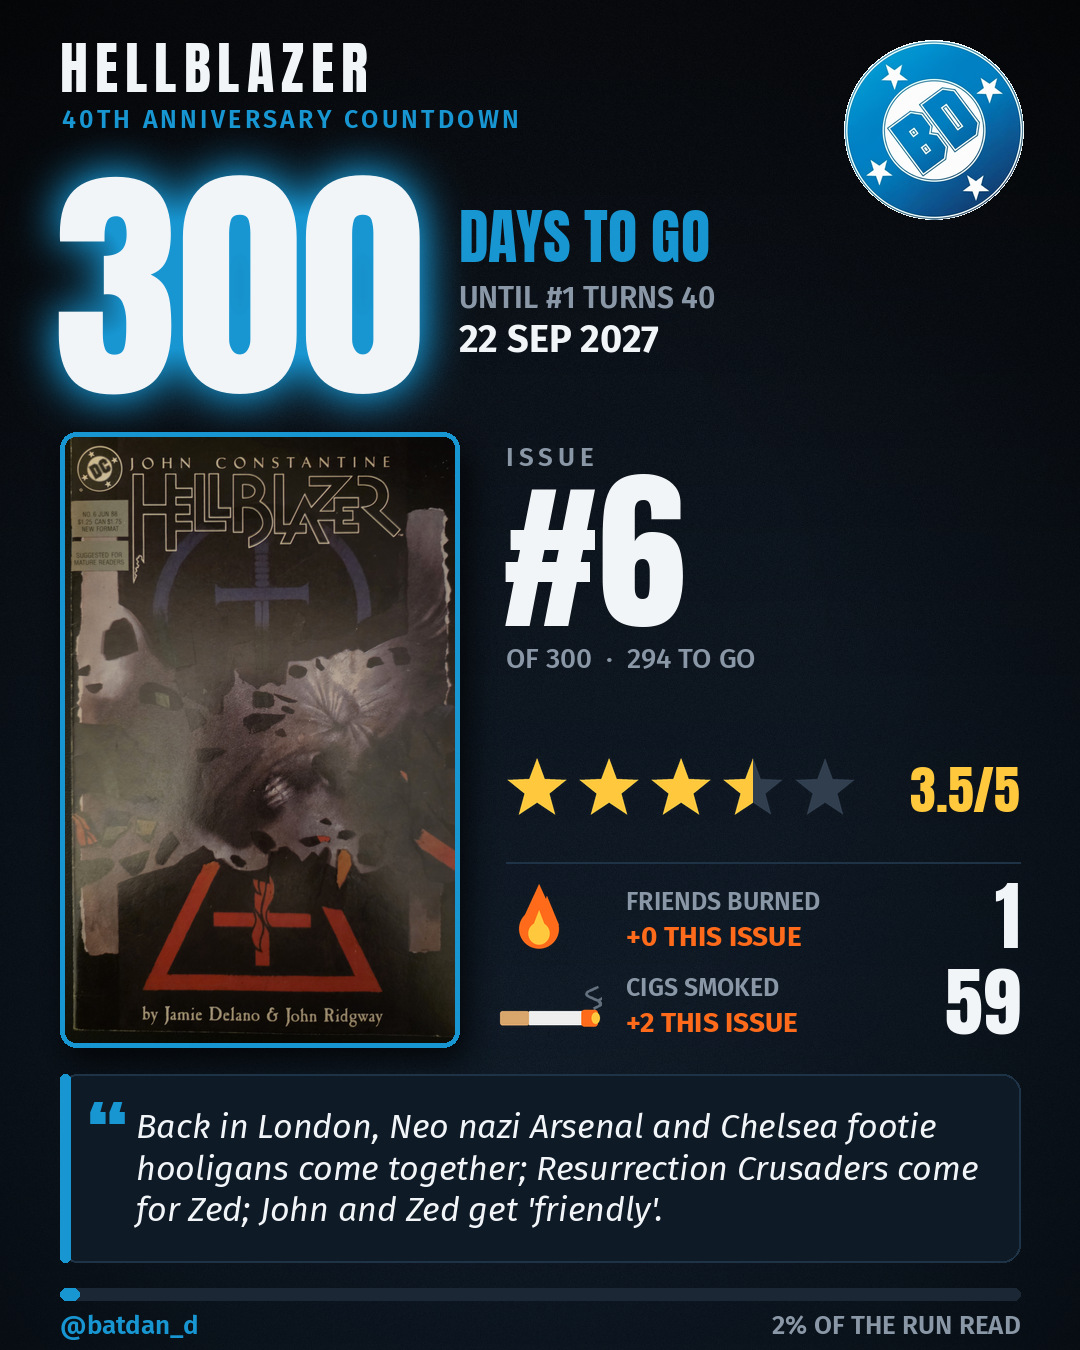
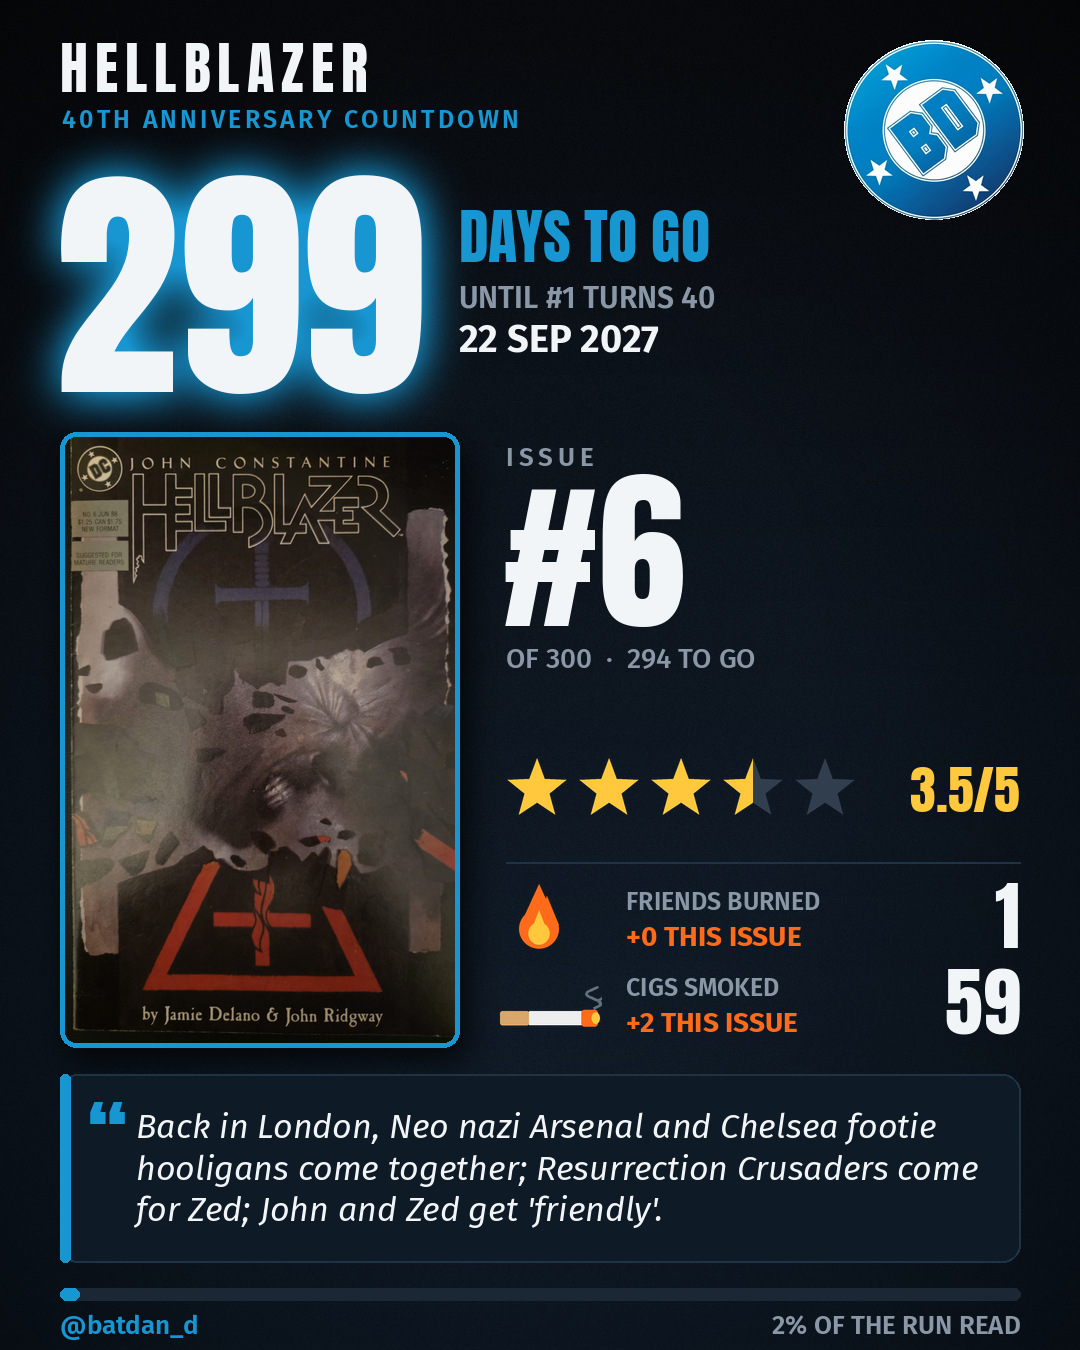
Update next post / recap short

Changed region(s): [[0.0306, 0.1556, 0.2444, 0.3111], [0.275, 0.1556, 0.3667, 0.28], [0.0611, 0.28, 0.0917, 0.3111]]

diff --git a/NEXT_POST.md b/NEXT_POST.md
@@ -1,6 +1,6 @@
 # 📮 Next post — Hellblazer #6
 
-**300 days to go.**  Save the image, copy the caption, post to Instagram.
+**299 days to go.**  Save the image, copy the caption, post to Instagram.
 
 🎵 **Suggested track:** Orbital — Belfast  _(add it in Instagram when you post)_
 
@@ -9,7 +9,7 @@
 ### Caption
 
 ```
-☠ T-MINUS 300 DAYS — Hellblazer #6
+☠ T-MINUS 299 DAYS — Hellblazer #6
 ★★★½☆  3.5/5
 
 Back in London, Neo nazi Arsenal and Chelsea footie hooligans come together; Resurrection Crusaders come for Zed; John and Zed get 'friendly'.
